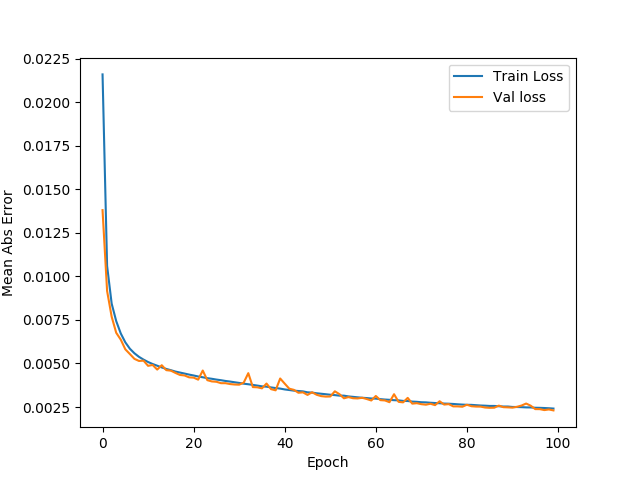
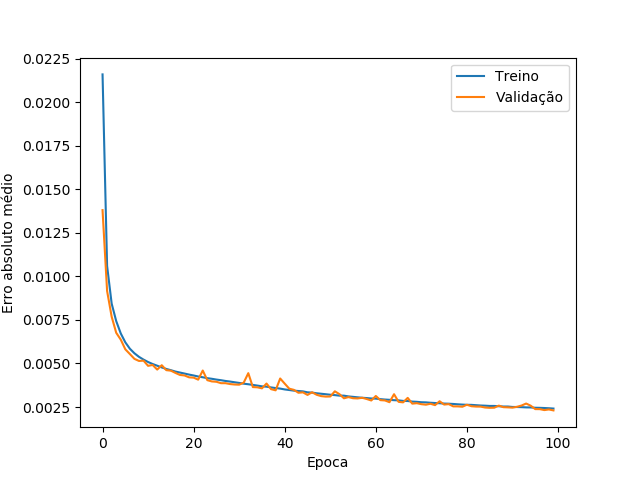
translate graph to portuguese

diff --git a/python/outputDataInfoPrinter.py b/python/outputDataInfoPrinter.py
@@ -60,12 +60,12 @@ with open(outputFilePath, 'wt', newline='') as outFile:
 
 def plot_history(history):
     plt.figure()
-    plt.xlabel('Epoch')
-    plt.ylabel('Mean Abs Error')
+    plt.xlabel('Epoca')
+    plt.ylabel('Erro absoluto médio')
     plt.plot(history['epoch'], np.array(history['mean_absolute_error']),
-            label='Train Loss')
+            label='Treino')
     plt.plot(history['epoch'], np.array(history['val_mean_absolute_error']),
-            label = 'Val loss')
+            label = 'Validação')
     plt.legend()
     plt.show()
 
